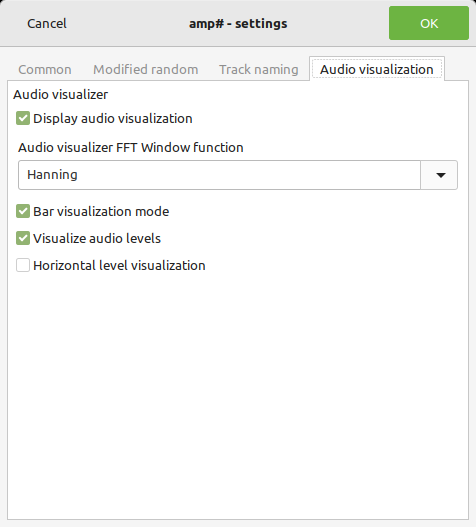
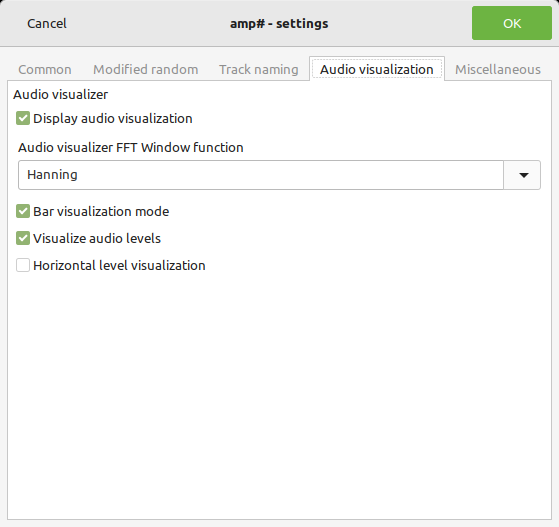
Update instructions.

diff --git a/amp.Shared/Globals.cs b/amp.Shared/Globals.cs
@@ -73,6 +73,7 @@ public class Globals
             EtoForms.Culture = value;
             Settings.Culture = value;
             ColorsDescriptions.Culture = value;
+            UiImageNames.Culture = value;
         }
     }
 

diff --git a/Help/amp-en/docs/settings.md b/Help/amp-en/docs/settings.md
@@ -81,3 +81,22 @@ A value indicating whether to visualize the audio levels vertical or horizontal.
 *The audio visualization tab*
 
 ![image](img/settings4.png)
+
+## Miscellaneous
+On this tab there are the miscellaneous settings which do not belong to any specific category directly.
+
+**Actions after the queue has finished**
+Tow actions can be defined to in the programs which are run when the queue has finished playing.
+
+The actions are: 
+
+* None
+* Stop playback
+* Pop stashed queue
+* Quit the application
+
+If the first action can not be run, the second action is run. Otherwise the first action is run and the situation is re-evaluated after the queue has finished playing again.
+
+*The Miscellaneous tab*
+
+![image](img/settings5.png)

diff --git a/Help/amp-fi/docs/settings.md b/Help/amp-fi/docs/settings.md
@@ -82,3 +82,22 @@ Arvo, millä ilmaistaan visualisoidaanko äänen voimakkuus vaaka- vai pystysuun
 *Äänen visualisointi -välilehti*
 
 ![image](img/settings4.png)
+
+## Sekalaista
+Tällä välilehdellä on sekalaiset asetukset jotka eivät suoraan kuulu mihinkään kategoriaan.
+
+**Toimenpiteet jonon loputtua**
+Ohjelmassa voi määritellä 2 toimenpidettä, jotka suoritetaan jonon loputtua.
+
+Toimenpiteet ovat:
+
+* Ei mitään
+* Pysäytä toisto
+* Palauta varastoitu jono
+* Lopeta sovellus
+
+Jos ensimmäistä toimenpidettä ei voida suorittaa, suoritetaan seuraava, muussa tapauksessa pysähdytään ensimmäiseen toimenpiteeseen ja arvioidaan tilanne uudelleen jonon loputtua.
+
+*Sekalaista-välilehti*
+
+![image](img/settings5.png)
